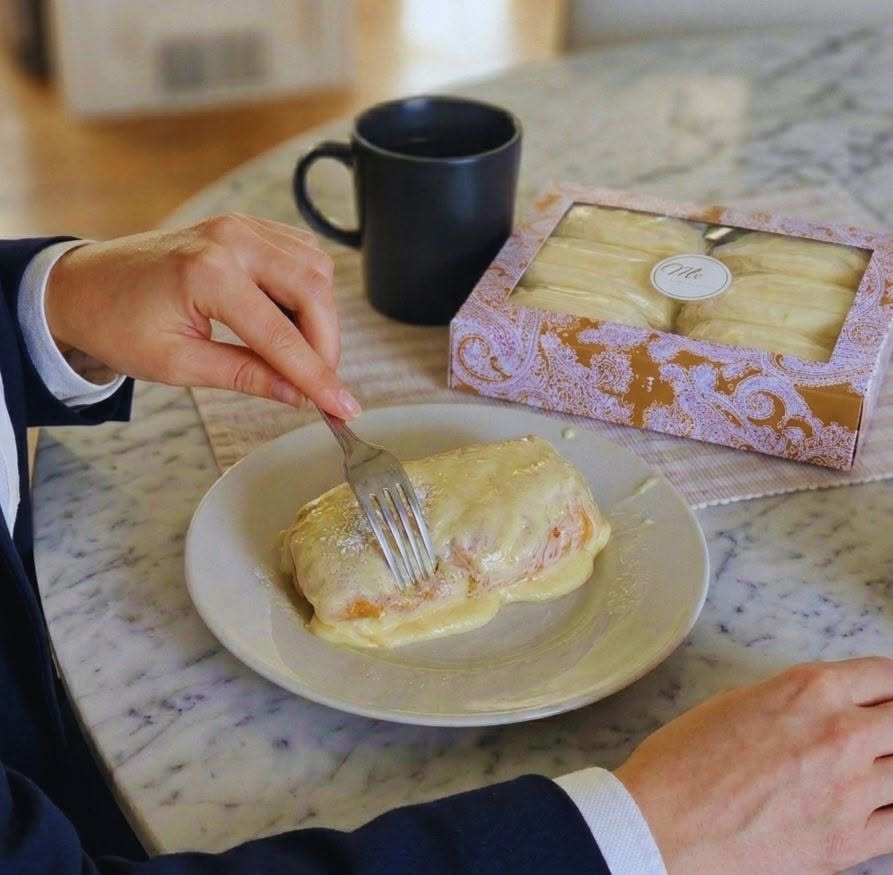
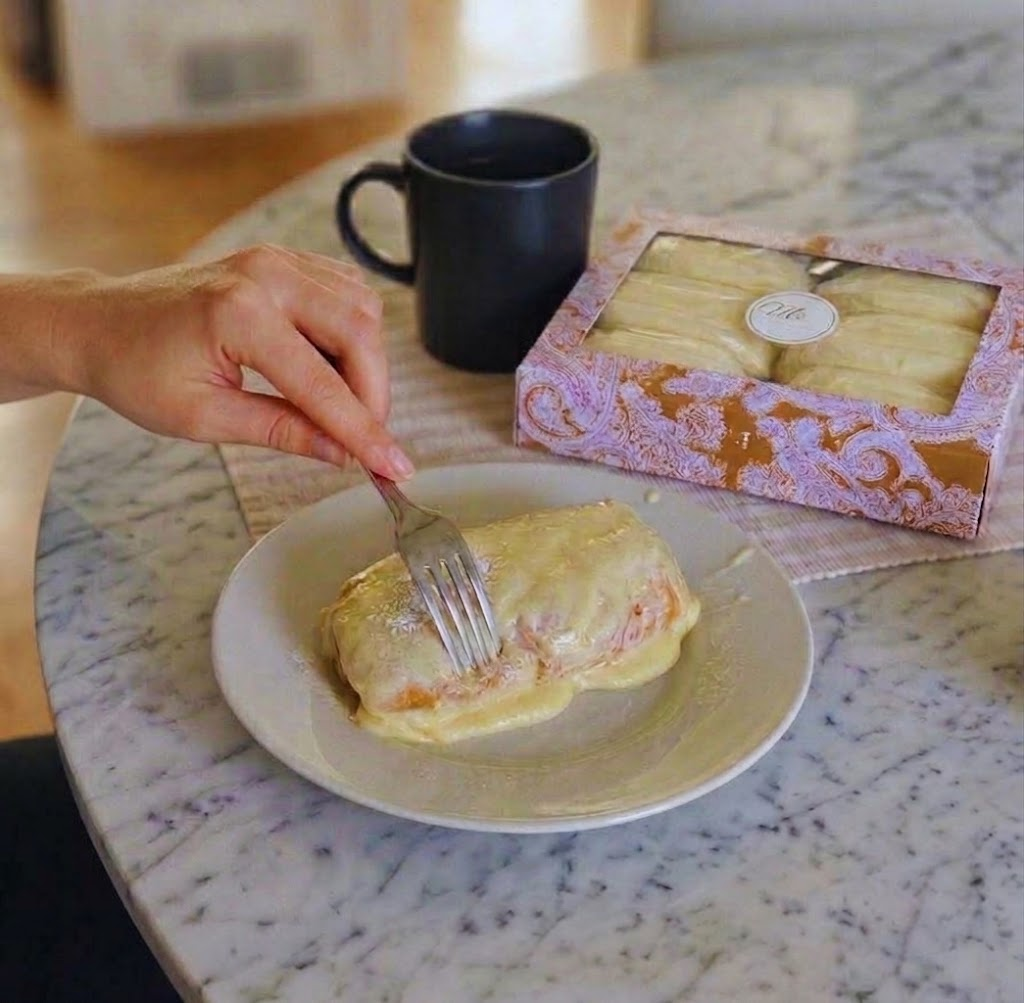
Update hero copy, widen showcase frame, refresh product photos

diff --git a/index.html b/index.html
@@ -33,8 +33,8 @@
 
     <section class="hero">
       <div>
-        <p class="eyebrow">Home&#8209;baked, made to order</p>
-        <h1>Cakes and pastries baked one <em>box</em> at a time.</h1>
+        <p class="eyebrow">The warmth of home&#8209;made, made for every occasion</p>
+        <h1>Bringing you premium goodness in every <em>cake</em> and <em>pastry</em>.</h1>
         <p class="lede">From cashew packed <em>Sansrival</em> to cream cheese frosted <em>Carrot Cake</em> and home&#8209;style <em>Apple Pie</em> tucked in buttery crust &mdash; every order at M&rsquo;s by Marjorie&rsquo;s is prepared, filled, and boxed by hand especially for you.</p>
         <div class="hero-cta">
           <a href="#menu" class="btn btn-solid">See the menu</a>

diff --git a/css/style.css b/css/style.css
@@ -134,11 +134,12 @@ nav{
 /* ---- showcase ---- */
 .showcase{ text-align:center; }
 .showcase-frame{
+  max-width:1180px; margin-inline:auto;
   border-radius:20px; overflow:hidden;
   border:1px solid var(--line);
   box-shadow:0 24px 48px -24px var(--shadow);
 }
-.showcase-frame img{ width:100%; aspect-ratio:3/2; object-fit:cover; display:block; }
+.showcase-frame img{ width:100%; aspect-ratio:16/9; object-fit:cover; display:block; }
 .showcase-caption{
   font-family:'Fraunces',serif; font-style:italic; font-weight:500;
   font-size:17px; color:var(--espresso-soft); margin-top:18px;
